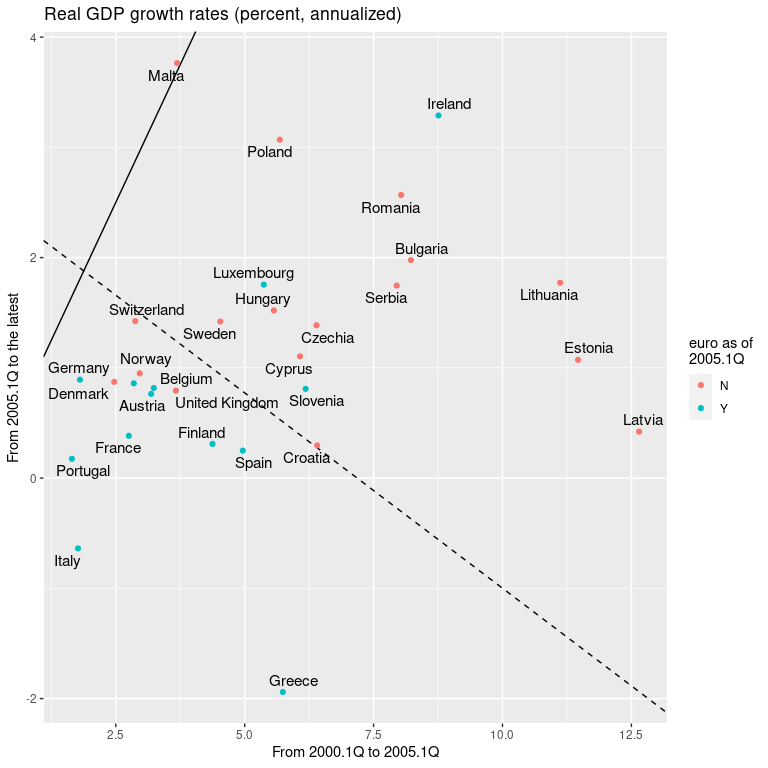
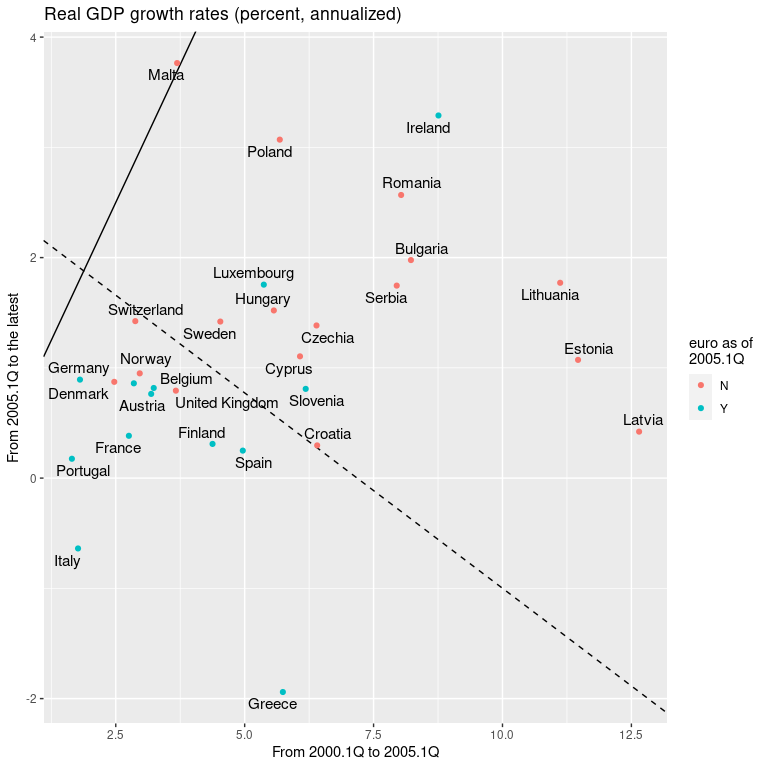
left_join by geo, not name

diff --git a/README.md b/README.md
@@ -17,7 +17,7 @@ Mitsuo Shiota
       - [Before and after growth rates, and classifier: logistic
         regression](#before-and-after-growth-rates-and-classifier-logistic-regression)
 
-Updated: 2021-01-08
+Updated: 2021-01-09
 
 ## Summary
 
@@ -140,16 +140,17 @@ euro_entry <- wiki %>%
 
 euro_entry_tbl <- 
   tibble(
-    name = euro_entry[seq(1, 95, 5)],
+    geo = euro_entry[seq(1, 95, 5) + 1],
     date_fixed = euro_entry[seq(1, 95, 5) + 3]
   )
 
 euro_entry_tbl$date_fixed <- as_date(euro_entry_tbl$date_fixed, format = "%d %B %Y")
 
-euro_entry_tbl$name <- c("Austria", "Belgium", "Netherlands", "Finland", "France",
-                         "Germany", "Ireland", "Italy", "Luxembourg", "Portugal",
-                         "Spain", "Greece", "Slovenia", "Cyprus", "Malta",
-                         "Slovakia", "Estonia", "Latvia", "Lituania")
+euro_entry_tbl <- euro_entry_tbl %>% 
+  mutate(
+    geo = str_sub(geo, 1L, 2L),
+    geo = if_else(geo == "GR", "EL", geo) # Greece
+  )
 ```
 
 I add “date\_fixed” column to GDP data, compare it with “time” column,
@@ -158,7 +159,7 @@ or not (“N”).
 
 ``` r
 eu_gdp <- eu_gdp %>% 
-  left_join(euro_entry_tbl, by = "name") %>% 
+  left_join(euro_entry_tbl, by = "geo") %>% 
   mutate(euro = if_else(time >= date_fixed, "Y", "N")) %>% 
   replace_na(list(euro = "N"))
 
